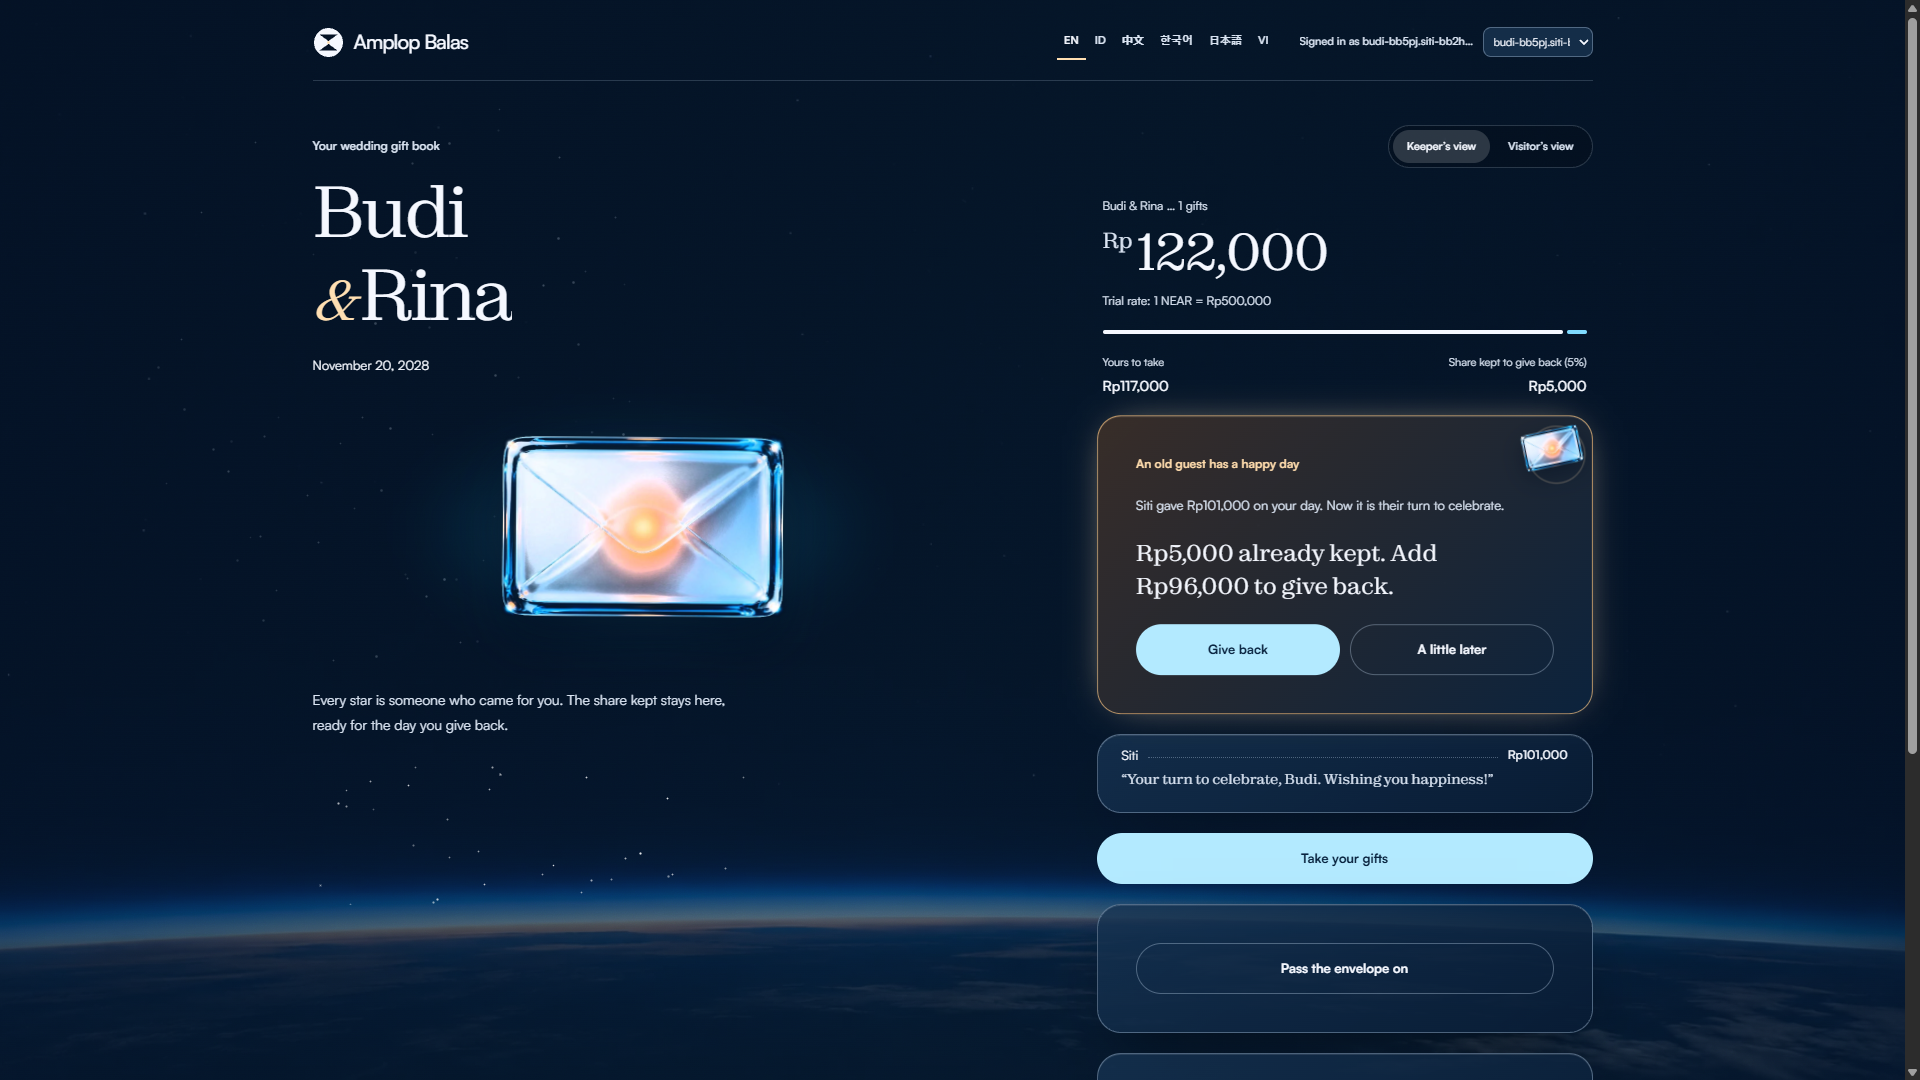
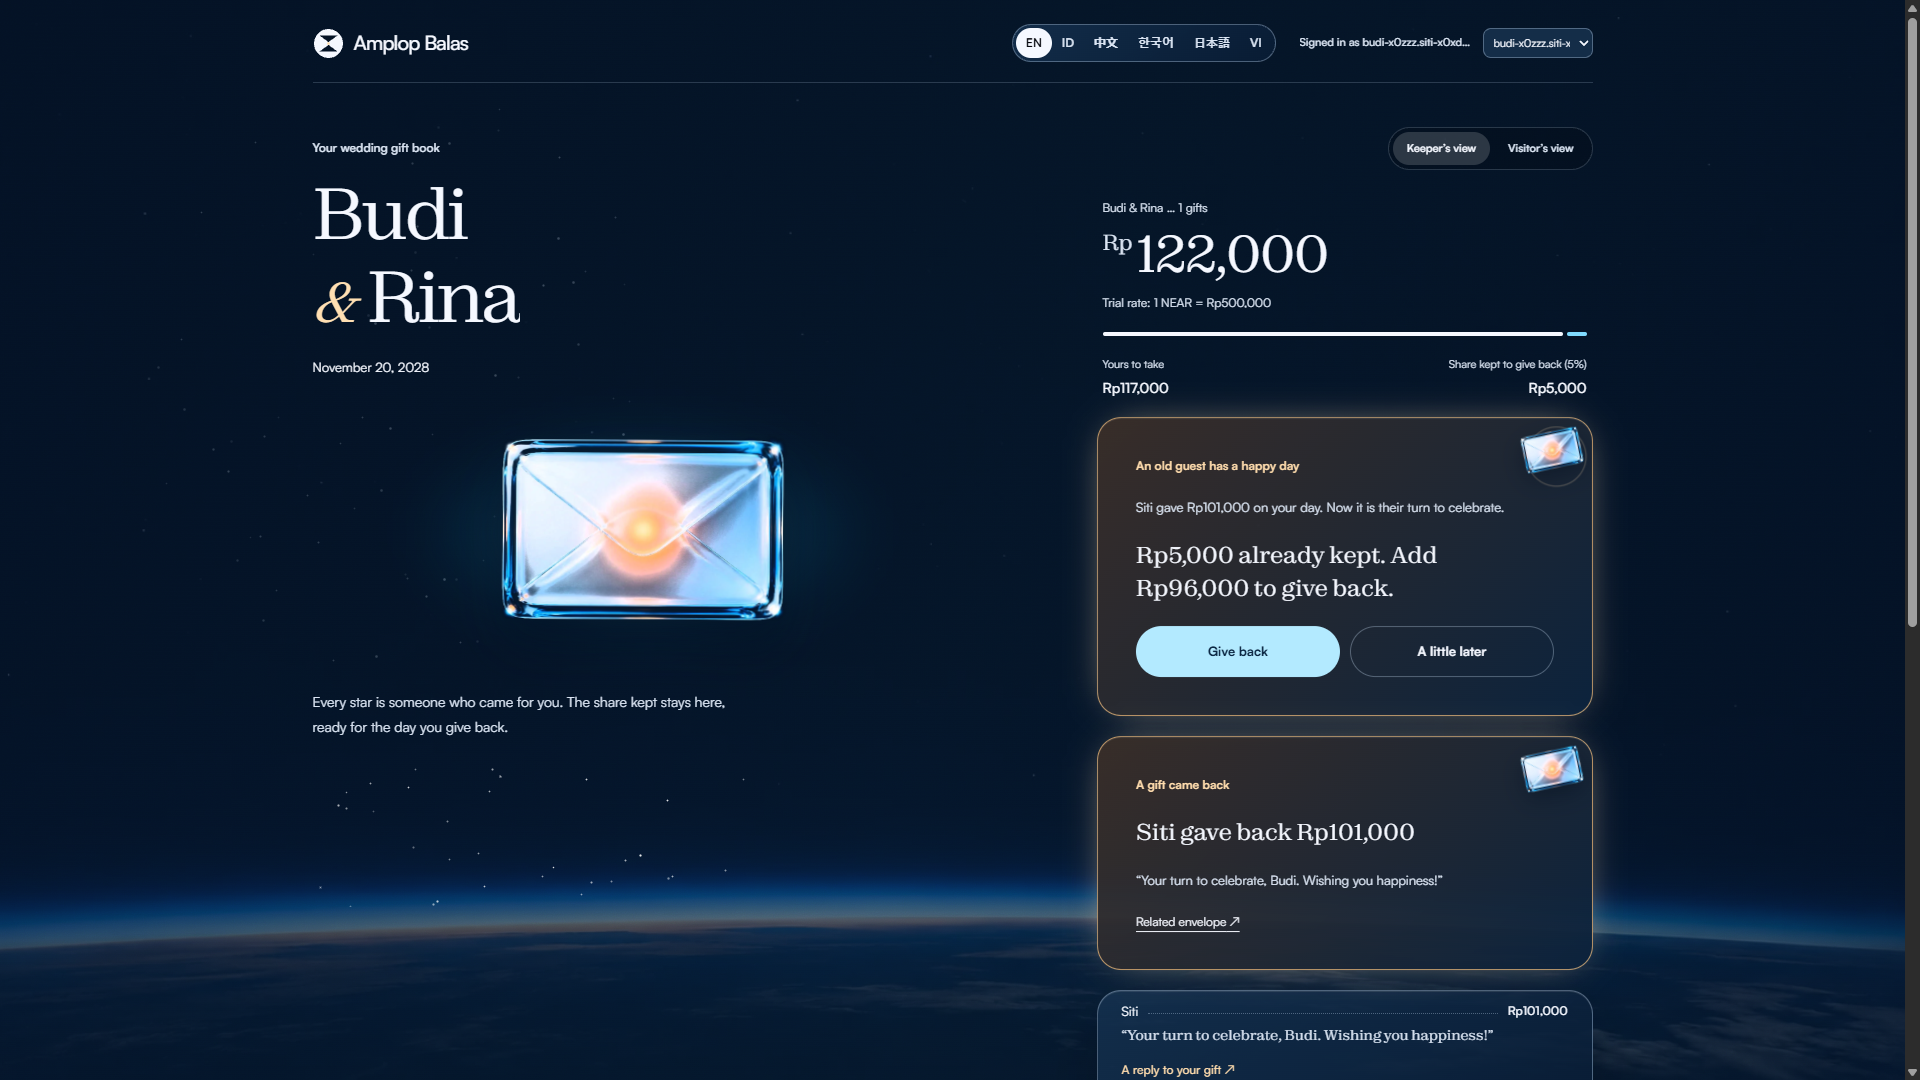
ITM-A4: bukti dan dokumen sesudah halaman dalam final
Kenapa: uji cerita terbaru lulus penuh dan fitur baru perlu tercatat.

Bukti: coba-e2e-report 14 lulus 0 gagal, 28,8 detik; return-check-report lulus; asset-check-report 210 berkas.

diff --git a/CLAIMS.md b/CLAIMS.md
@@ -22,11 +22,12 @@ Contract: [`amplop-c-mvznhnlx.testnet`](https://testnet.nearblocks.io/address/am
 
 | Claim | Proof | Check it yourself |
 |---|---|---|
-| The whole story runs on real testnet from one button, with a receipt per transaction. | [`coba-e2e-report.txt`](docs/evidence/coba-e2e-report.txt): 13 of 14 checks. The one miss is time, below. | `cd frontend && node e2e/coba.e2e.mjs https://amplop-balas.vercel.app` |
-| The story takes about a minute or less. | 29.5 s and 60.9 s on 5 November, target 60 s. It depends on the public testnet. If the public helper refuses, the page says so and offers a run clearly labelled as a recording. | same |
+| The whole story runs on real testnet from one button, with a receipt per transaction. | [`coba-e2e-report.txt`](docs/evidence/coba-e2e-report.txt): 14 of 14 checks on the last run. | `cd frontend && node e2e/coba.e2e.mjs https://amplop-balas.vercel.app` |
+| The story takes about a minute or less. | 28.8 s, 29.5 s and 60.9 s, target 60 s. It depends on the public testnet. If the public helper refuses, the page says so and offers a run clearly labelled as a recording. | same |
 | A guest gives from a phone in 20 s or less, with nothing to install. | Step E4 in [`e2e-report.txt`](docs/evidence/e2e-report.txt): 10.7 s, signed in the browser. | `cd frontend && node e2e/alur.e2e.mjs` |
 | Guest pages fit a 360 px screen. | Step E3: 0 px overflow. | same |
-| Every file of the site answers and every image decodes. | [`asset-check-report.txt`](docs/evidence/asset-check-report.txt): 208 files, five pages, two screen sizes. | `cd frontend && node e2e/aset.e2e.mjs https://amplop-balas.vercel.app` |
+| Every file of the site answers and every image decodes. | [`asset-check-report.txt`](docs/evidence/asset-check-report.txt): 210 files, five pages, two screen sizes. | `cd frontend && node e2e/aset.e2e.mjs https://amplop-balas.vercel.app` |
+| A reply shows on both sides: the gift says it was given back, and the receiver's book shows the reply as its own card. | Fields `reply_to` and `replied` from the contract, shown in `frontend/src/pages/Buku.tsx`; screenshot [`coba-book-1366.png`](docs/evidence/coba-book-1366.png). | Finish the story at `#/coba` |
 | The landing stays whole after leaving it and coming back. | [`return-check-report.txt`](docs/evidence/return-check-report.txt): back by logo and by browser button, from the very bottom of the page, then 18 quick round trips. | `cd frontend && node e2e/balik.e2e.mjs https://amplop-balas.vercel.app` |
 | The app works in six languages. | Text check in `frontend/src/copy.test.ts`, part of 57 web tests passing (2 skipped) on 5 November. | `cd frontend && npx vitest run` |
 

diff --git a/README.md b/README.md
@@ -16,7 +16,7 @@ Also by the same builder: **Mintless** (*Kota Tanpa Cetak Uang*, track Games Wit
 | Contract (testnet) | [`amplop-c-mvznhnlx.testnet`](https://testnet.nearblocks.io/address/amplop-c-mvznhnlx.testnet), zero access keys |
 | Standard | NEP-171, NEP-177, NEP-181 (`near-sdk` 5.30.0) |
 | Code on chain | `4TwL5AiugAkZSC3UEzpRyqcQdzhGK35vLLrzrTPGEe8U`, equal to the hash of a release build of this source |
-| Tests | 45 Rust, 57 web, 12 live attacks, 13 of 14 browser steps, and the one-button story run on the live site in 29.5 s and 60.9 s, depending on the public testnet ([reports](docs/evidence/)) |
+| Tests | 45 Rust, 57 web, 12 live attacks, 13 of 14 browser steps, and the one-button story run on the live site in 28.8 s to 60.9 s, depending on the public testnet ([reports](docs/evidence/)) |
 | Docs | [Architecture](docs/ARCHITECTURE.md) · [Threat model](docs/THREAT-MODEL.md) · [Design](docs/DESIGN.md) · [Roadmap](docs/ROADMAP.md) · [Claims](CLAIMS.md) · [Changelog](CHANGELOG.md) · [Evidence](docs/evidence/) |
 
 ## Try the whole story on one device
@@ -25,7 +25,7 @@ Open https://amplop-balas.vercel.app/#/coba, or click **Try the whole story** on
 
 The browser requests one throwaway account for Siti from NEAR's public testnet helper. Siti funds Budi's sub-account from her own test balance. It then opens Siti's wedding, sends Budi's gift, advances the story date by two years and opens Budi's celebration. The chain clock is unchanged. The envelope stops at the ring until you click **Give back to Budi**.
 
-Each completed transaction has a receipt link and a measured duration. The end shows elapsed time including your pause, plus the sum of measured steps. The target is 60 seconds; live checks took 29.5 s and 60.9 s including the pause, the second one just over target, see [coba-e2e-report.txt](docs/evidence/coba-e2e-report.txt). Network latency and helper availability affect it.
+Each completed transaction has a receipt link and a measured duration. The end shows elapsed time including your pause, plus the sum of measured steps. The target is 60 seconds; live checks took 28.8 s, 29.5 s and 60.9 s including the pause, the slowest just over target, see [coba-e2e-report.txt](docs/evidence/coba-e2e-report.txt). Network latency and helper availability affect it.
 
 If the helper refuses the request, the page says so and offers **View recorded run**. This is explicitly a past run from 3 November 2026, with the four hashes in [measured-testnet.txt](docs/evidence/measured-testnet.txt). That evidence contains opening, giving, replying and withdrawing; it does not contain Budi's opening receipt.
 

diff --git a/CHANGELOG.md b/CHANGELOG.md
@@ -11,6 +11,8 @@ What changed, by day. The project started on 3 November 2026. Commit messages ar
 - Six languages across the whole app: English, Indonesian, Chinese, Korean, Japanese, Vietnamese.
 - Asset check: every page at two screen sizes, no file may fail and every image must decode.
 - `CLAIMS.md` and this changelog.
+- The book links gifts and replies both ways, and a reply arrives as its own card.
+- Pages for a wrong link, for loading, and for a book with no gifts yet, where the guest QR now comes first.
 
 ### Changed
 - The five envelopes each get the stage alone, on a backdrop made from their own tradition's material, then meet at the end. The backdrops live with the sky, so no edge shows.
